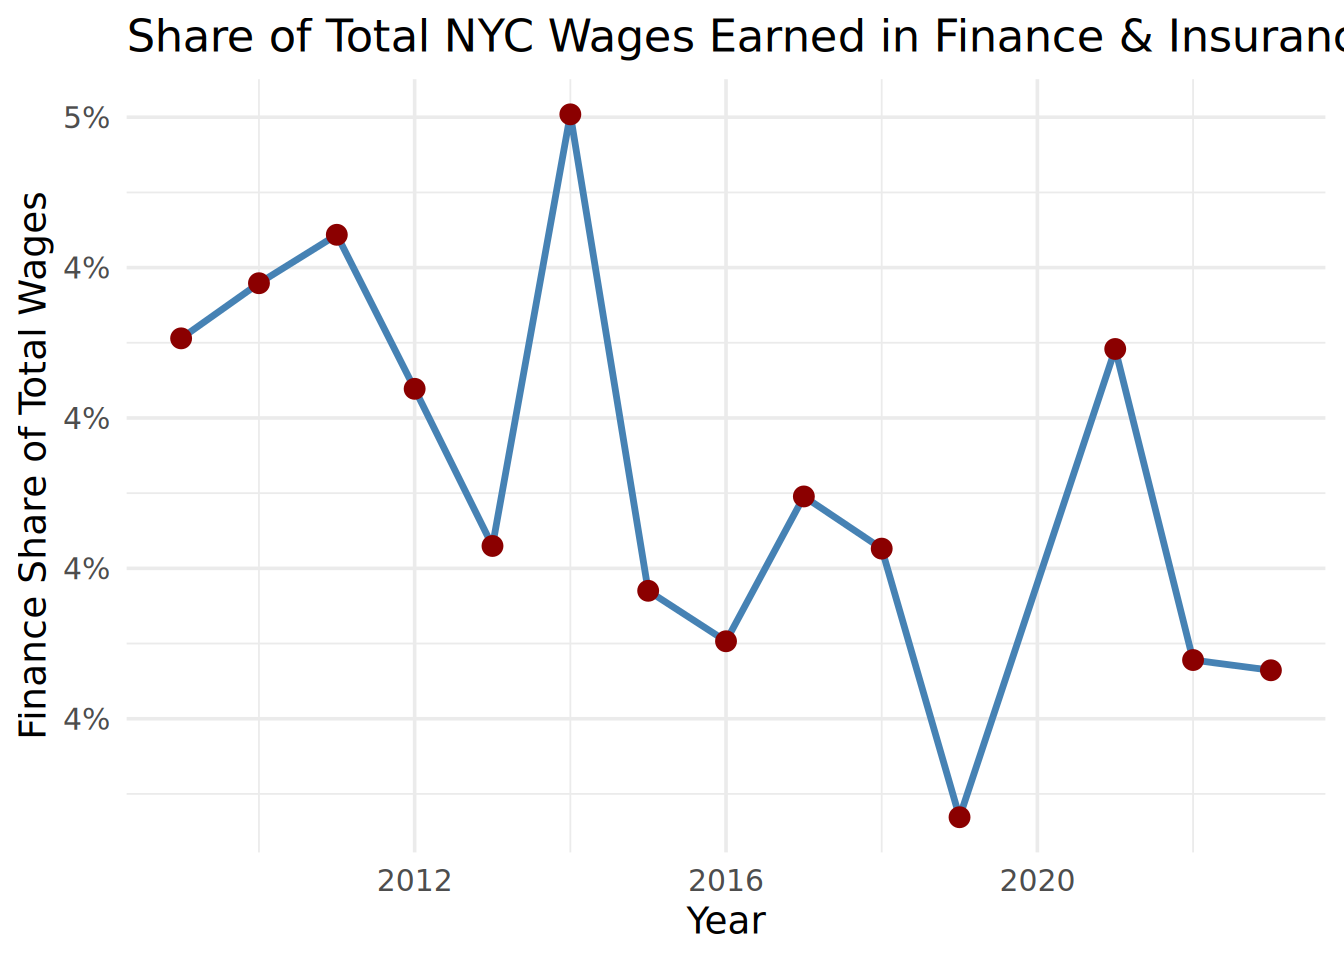
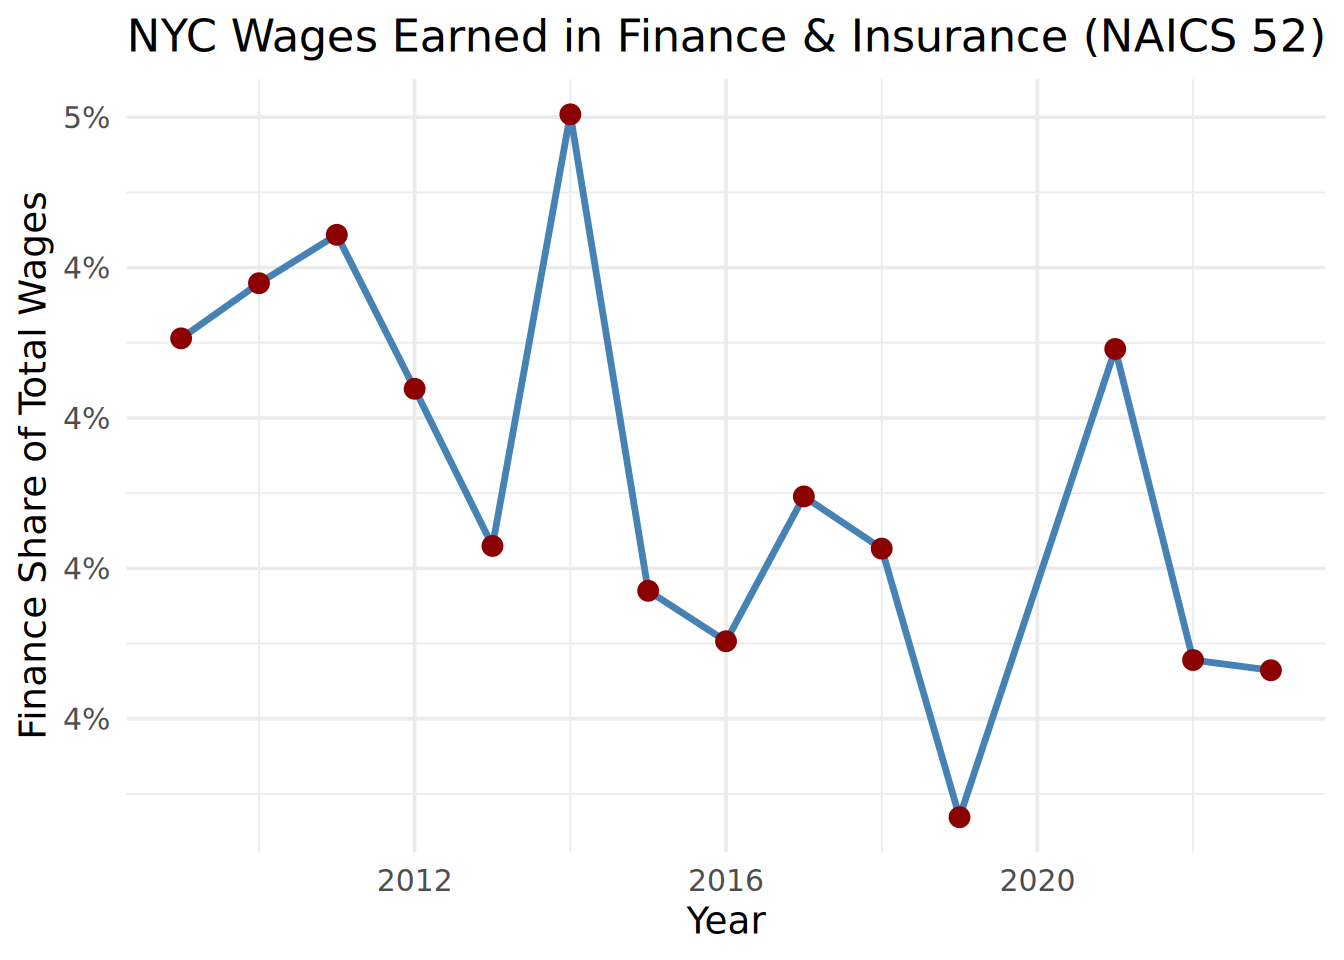
thursday save

Changed region(s): [[0.0938, 0.0, 1.0, 0.0625]]

diff --git a/docs/mp02.html b/docs/mp02.html
@@ -155,8 +155,8 @@ ul.task-list li input[type="checkbox"] {
 <p>Next, we will see some of the findings that were extracted from this data. To begin, we see the top 5 CBSA’s that permitted the largest number of new housing in the 2010’s.</p>
 <div class="cell">
 <div class="cell-output-display">
-<div class="datatables html-widget html-fill-item" id="htmlwidget-491eb739eb9ceb6179eb" style="width:100%;height:auto;"></div>
-<script type="application/json" data-for="htmlwidget-491eb739eb9ceb6179eb">{"x":{"filter":"none","vertical":false,"caption":"<caption>Top 5 CBSAs with the Most New Housing Units Permitted (2010–2019, using 2019 CBSA Names)<\/caption>","data":[["1","2","3","4","5"],[26420,19100,35620,12060,47900],["Houston-The Woodlands-Sugar Land, TX Metro Area","Dallas-Fort Worth-Arlington, TX Metro Area","New York-Newark-Jersey City, NY-NJ-PA Metro Area","Atlanta-Sandy Springs-Alpharetta, GA Metro Area","Washington-Arlington-Alexandria, DC-VA-MD-WV Metro Area"],[482075,460826,446020,254377,232483]],"container":"<table class=\"display\">\n  <thead>\n    <tr>\n      <th> <\/th>\n      <th>CBSA<\/th>\n      <th>NAME<\/th>\n      <th>new_units<\/th>\n    <\/tr>\n  <\/thead>\n<\/table>","options":{"dom":"t","scrollX":true,"columnDefs":[{"className":"dt-right","targets":[1,3]},{"orderable":false,"targets":0},{"name":" ","targets":0},{"name":"CBSA","targets":1},{"name":"NAME","targets":2},{"name":"new_units","targets":3}],"order":[],"autoWidth":false,"orderClasses":false}},"evals":[],"jsHooks":[]}</script>
+<div class="datatables html-widget html-fill-item" id="htmlwidget-e26d96f528dd2d934e6c" style="width:100%;height:auto;"></div>
+<script type="application/json" data-for="htmlwidget-e26d96f528dd2d934e6c">{"x":{"filter":"none","vertical":false,"caption":"<caption>Top 5 CBSAs with the Most New Housing Units Permitted (2010–2019, using 2019 CBSA Names)<\/caption>","data":[["1","2","3","4","5"],[26420,19100,35620,12060,47900],["Houston-The Woodlands-Sugar Land, TX Metro Area","Dallas-Fort Worth-Arlington, TX Metro Area","New York-Newark-Jersey City, NY-NJ-PA Metro Area","Atlanta-Sandy Springs-Alpharetta, GA Metro Area","Washington-Arlington-Alexandria, DC-VA-MD-WV Metro Area"],[482075,460826,446020,254377,232483]],"container":"<table class=\"display\">\n  <thead>\n    <tr>\n      <th> <\/th>\n      <th>CBSA<\/th>\n      <th>NAME<\/th>\n      <th>new_units<\/th>\n    <\/tr>\n  <\/thead>\n<\/table>","options":{"dom":"t","scrollX":true,"columnDefs":[{"className":"dt-right","targets":[1,3]},{"orderable":false,"targets":0},{"name":" ","targets":0},{"name":"CBSA","targets":1},{"name":"NAME","targets":2},{"name":"new_units","targets":3}],"order":[],"autoWidth":false,"orderClasses":false}},"evals":[],"jsHooks":[]}</script>
 </div>
 </div>
 <p>As we can see, the CBSA that permitted the largest number of new housing units between 2010 and 2019 was Houston-The Woodlands-Sugar Land, TX Metro Area.</p>
@@ -185,12 +185,12 @@ ul.task-list li input[type="checkbox"] {
 <p>Next findings show which CBSA had the most amount of data scientists in the last 5 years.</p>
 <div class="cell">
 <div class="cell-output-display">
-<div class="datatables html-widget html-fill-item" id="htmlwidget-24998a2df3b69c3a7c2f" style="width:100%;height:auto;"></div>
-<script type="application/json" data-for="htmlwidget-24998a2df3b69c3a7c2f">{"x":{"filter":"none","vertical":false,"caption":"<caption>Top 5 Most Recent Years – CBSA with the Most Data Scientists (NAICS 5182)<\/caption>","data":[["1","2","3","4","5"],[2023,2022,2021,2019,2018],[41860,41860,12060,41860,41860],["San Francisco-Oakland-Fremont, CA Metro Area","San Francisco-Oakland-Fremont, CA Metro Area","Atlanta-Sandy Springs-Marietta, GA Metro Area","San Francisco-Oakland-Fremont, CA Metro Area","San Francisco-Oakland-Fremont, CA Metro Area"]],"container":"<table class=\"display\">\n  <thead>\n    <tr>\n      <th> <\/th>\n      <th>YEAR<\/th>\n      <th>cbsa_code<\/th>\n      <th>cbsa_name<\/th>\n    <\/tr>\n  <\/thead>\n<\/table>","options":{"dom":"t","scrollX":true,"columnDefs":[{"className":"dt-right","targets":[1,2]},{"orderable":false,"targets":0},{"name":" ","targets":0},{"name":"YEAR","targets":1},{"name":"cbsa_code","targets":2},{"name":"cbsa_name","targets":3}],"order":[],"autoWidth":false,"orderClasses":false}},"evals":[],"jsHooks":[]}</script>
+<div class="datatables html-widget html-fill-item" id="htmlwidget-cceeeefccb8cf1a1f31f" style="width:100%;height:auto;"></div>
+<script type="application/json" data-for="htmlwidget-cceeeefccb8cf1a1f31f">{"x":{"filter":"none","vertical":false,"caption":"<caption>Top 5 Most Recent Years – CBSA with the Most Data Scientists (NAICS 5182)<\/caption>","data":[["1","2","3","4","5"],[2023,2022,2021,2019,2018],[41860,41860,12060,41860,41860],["San Francisco-Oakland-Fremont, CA Metro Area","San Francisco-Oakland-Fremont, CA Metro Area","Atlanta-Sandy Springs-Marietta, GA Metro Area","San Francisco-Oakland-Fremont, CA Metro Area","San Francisco-Oakland-Fremont, CA Metro Area"]],"container":"<table class=\"display\">\n  <thead>\n    <tr>\n      <th> <\/th>\n      <th>YEAR<\/th>\n      <th>cbsa_code<\/th>\n      <th>cbsa_name<\/th>\n    <\/tr>\n  <\/thead>\n<\/table>","options":{"dom":"t","scrollX":true,"columnDefs":[{"className":"dt-right","targets":[1,2]},{"orderable":false,"targets":0},{"name":" ","targets":0},{"name":"YEAR","targets":1},{"name":"cbsa_code","targets":2},{"name":"cbsa_name","targets":3}],"order":[],"autoWidth":false,"orderClasses":false}},"evals":[],"jsHooks":[]}</script>
 </div>
 </div>
 <p>After taking a closer look at more previous years, you are able to find that 2015 was the last year that the NYC CBSA led the country for data scientists.</p>
-<p>The last thing we take a look at initially, is the toal wages in the NYC CBSA. We look specifically into the wages that come from the finance and insurance industries to figure the percentage this is of the total wages.</p>
+<p>The last thing we take a look at initially, is the total wages in the NYC CBSA. We look specifically into the wages that come from the finance and insurance industries to figure the percentage this is of the total wages.</p>
 <div class="cell">
 <div class="cell-output-display">
 <div>
@@ -201,7 +201,7 @@ ul.task-list li input[type="checkbox"] {
 </div>
 </div>
 <p>We look at various years to find no trend. However, we are able to find the peak in the year 2014, with about 5%.</p>
-<p>To keep on trend of familiriaty with the dataset, we will see more visualizations to show different types of relationships.</p>
+<p>To keep on the trend of familiriaty with the dataset, we will see more visualizations to show different types of relationships.</p>
 <div class="cell">
 <div class="cell-output-display">
 <div>
@@ -261,6 +261,62 @@ ul.task-list li input[type="checkbox"] {
 </div>
 <p>The next visualization shows the rent burden in 2023 for CBSA’s across the nation.</p>
 <p>We are highlighting the CBSA’s with the highest and lowest rent burdens.</p>
+<p>Next, we are going to look at housing growth within the CBSAs.</p>
+<p>We are going to construct two metrics, one will allow us to see the housing growth based on population of a CBSA and number of new housing units permitted for the year.</p>
+<p>The other metric will compare the housing permits to the population growth over a 5 year lookback windown.</p>
+<p>Lets first take a look at the first metric.</p>
+<div class="cell">
+<div class="cell-output-display">
+<div class="datatables html-widget html-fill-item" id="htmlwidget-84887ff800bd1618642f" style="width:100%;height:auto;"></div>
+<script type="application/json" data-for="htmlwidget-84887ff800bd1618642f">{"x":{"filter":"none","vertical":false,"caption":"<caption>Top 10 CBSAs by Instantaneous Housing Growth (Standardized)<\/caption>","data":[["1","2","3","4","5","6","7","8","9","10"],["41540","45540","34820","39460","12420","41100","43620","35840","18880","24540"],["Salisbury","The Villages","Myrtle Beach-Conway-North Myrtle Beach","Punta Gorda","Austin-Round Rock-Georgetown","St. George","Sioux Falls","North Port-Sarasota-Bradenton","Crestview-Fort Walton Beach-Destin","Greeley"],[2023,2021,2023,2022,2021,2019,2022,2021,2023,2022],[10.77897917821454,9.596029855146394,9.328148730883457,7.699872111219605,5.683497017768591,5.174554942806703,4.91021228878386,4.695833511517524,4.644229210974912,4.406650397047013]],"container":"<table class=\"display\">\n  <thead>\n    <tr>\n      <th> <\/th>\n      <th>cbsa_code<\/th>\n      <th>cbsa_name<\/th>\n      <th>year<\/th>\n      <th>housing_growth_instant_std<\/th>\n    <\/tr>\n  <\/thead>\n<\/table>","options":{"pageLength":10,"columnDefs":[{"className":"dt-right","targets":[3,4]},{"orderable":false,"targets":0},{"name":" ","targets":0},{"name":"cbsa_code","targets":1},{"name":"cbsa_name","targets":2},{"name":"year","targets":3},{"name":"housing_growth_instant_std","targets":4}],"order":[],"autoWidth":false,"orderClasses":false}},"evals":[],"jsHooks":[]}</script>
+</div>
+<div class="cell-output-display">
+<div class="datatables html-widget html-fill-item" id="htmlwidget-547cea7a3d54aab207b3" style="width:100%;height:auto;"></div>
+<script type="application/json" data-for="htmlwidget-547cea7a3d54aab207b3">{"x":{"filter":"none","vertical":false,"caption":"<caption>Bottom 10 CBSAs by Instantaneous Housing Growth (Standardized)<\/caption>","data":[["1","2","3","4","5","6","7","8","9","10"],["19180","21820","34060","48540","48260","44600","22420","21420","29020","19500"],["Danville","Fairbanks","Morgantown","Wheeling","Weirton-Steubenville","Steubenville-Weirton","Flint","Enid","Kokomo","Decatur"],[2022,2015,2022,2023,2023,2011,2011,2023,2010,2022],[-1.160859507556099,-1.147365314861373,-1.144916634107787,-1.143909856577676,-1.125209699578639,-1.120793072359409,-1.120095895384042,-1.118556161154544,-1.112887292589859,-1.1040834745395]],"container":"<table class=\"display\">\n  <thead>\n    <tr>\n      <th> <\/th>\n      <th>cbsa_code<\/th>\n      <th>cbsa_name<\/th>\n      <th>year<\/th>\n      <th>housing_growth_instant_std<\/th>\n    <\/tr>\n  <\/thead>\n<\/table>","options":{"pageLength":10,"columnDefs":[{"className":"dt-right","targets":[3,4]},{"orderable":false,"targets":0},{"name":" ","targets":0},{"name":"cbsa_code","targets":1},{"name":"cbsa_name","targets":2},{"name":"year","targets":3},{"name":"housing_growth_instant_std","targets":4}],"order":[],"autoWidth":false,"orderClasses":false}},"evals":[],"jsHooks":[]}</script>
+</div>
+</div>
+<p>After coming up with our metric, we are able to separate the top 10 and bottom 10 CBSA’s in terms of instantaneous housing growth.</p>
+<p>Next, we will take a look at the second metric.</p>
+<div class="cell">
+<div class="cell-output-display">
+<div class="datatables html-widget html-fill-item" id="htmlwidget-3997fe9afa4e59e75c4a" style="width:100%;height:auto;"></div>
+<script type="application/json" data-for="htmlwidget-3997fe9afa4e59e75c4a">{"x":{"filter":"none","vertical":false,"caption":"<caption>Top 10 CBSAs by Rate-Based Housing Growth (Standardized)<\/caption>","data":[["1","2","3","4","5","6","7","8","9","10"],["33660","15380","35100","48140","22520","38300","17860","10580","33780","30340"],["Mobile","Buffalo-Cheektowaga-Niagara Falls","New Bern","Wausau","Florence-Muscle Shoals","Pittsburgh","Columbia","Albany-Schenectady-Troy","Monroe","Lewiston-Auburn"],[2017,2015,2019,2018,2017,2021,2017,2019,2018,2017],[28.95931645444866,28.8927889005698,16.8470487455071,14.07658622781179,8.443312441831342,5.725112198810617,5.180685406286639,4.696714999677041,4.182077236042853,3.179433658210268]],"container":"<table class=\"display\">\n  <thead>\n    <tr>\n      <th> <\/th>\n      <th>cbsa_code<\/th>\n      <th>cbsa_name<\/th>\n      <th>year<\/th>\n      <th>housing_growth_rate_std<\/th>\n    <\/tr>\n  <\/thead>\n<\/table>","options":{"pageLength":10,"columnDefs":[{"className":"dt-right","targets":[3,4]},{"orderable":false,"targets":0},{"name":" ","targets":0},{"name":"cbsa_code","targets":1},{"name":"cbsa_name","targets":2},{"name":"year","targets":3},{"name":"housing_growth_rate_std","targets":4}],"order":[],"autoWidth":false,"orderClasses":false}},"evals":[],"jsHooks":[]}</script>
+</div>
+<div class="cell-output-display">
+<div class="datatables html-widget html-fill-item" id="htmlwidget-04c7a72a2765225ecdbe" style="width:100%;height:auto;"></div>
+<script type="application/json" data-for="htmlwidget-04c7a72a2765225ecdbe">{"x":{"filter":"none","vertical":false,"caption":"<caption>Bottom 10 CBSAs by Rate-Based Housing Growth (Standardized)<\/caption>","data":[["1","2","3","4","5","6","7","8","9","10"],["34060","26580","12100","30980","16620","21820","45460","30020","25620","31740"],["Morgantown","Huntington-Ashland","Atlantic City-Hammonton","Longview","Charleston","Fairbanks","Terre Haute","Lawton","Hattiesburg","Manhattan"],[2016,2016,2023,2019,2022,2015,2019,2014,2021,2023],[-0.1432228571382545,-0.1431971367411251,-0.1429971707528833,-0.1429106319760908,-0.1422592225699794,-0.1421763003629161,-0.1417330135612504,-0.1416443692770018,-0.14157379834897,-0.141023588185687]],"container":"<table class=\"display\">\n  <thead>\n    <tr>\n      <th> <\/th>\n      <th>cbsa_code<\/th>\n      <th>cbsa_name<\/th>\n      <th>year<\/th>\n      <th>housing_growth_rate_std<\/th>\n    <\/tr>\n  <\/thead>\n<\/table>","options":{"pageLength":10,"columnDefs":[{"className":"dt-right","targets":[3,4]},{"orderable":false,"targets":0},{"name":" ","targets":0},{"name":"cbsa_code","targets":1},{"name":"cbsa_name","targets":2},{"name":"year","targets":3},{"name":"housing_growth_rate_std","targets":4}],"order":[],"autoWidth":false,"orderClasses":false}},"evals":[],"jsHooks":[]}</script>
+</div>
+</div>
+<p>After coming up with our second metric, we are able to separate the top 10 and bottom 10 CBSA’s in terms of rate-based housing growth.</p>
+<p>The last metric we will take a look is a composite score that combines the first two metrics.</p>
+<p>Once we figured out the metric, we are going to identify the CBSA’s that do well and poor with this measure</p>
+<div class="cell">
+<div class="cell-output-display">
+<div class="datatables html-widget html-fill-item" id="htmlwidget-f31b5dd62a8452e16dc7" style="width:100%;height:auto;"></div>
+<script type="application/json" data-for="htmlwidget-f31b5dd62a8452e16dc7">{"x":{"filter":"none","vertical":false,"caption":"<caption>Top 10 CBSAs by Instantaneous Housing Growth (Std) — 2023<\/caption>","data":[["1","2","3","4","5","6","7","8","9","10"],["41540","34820","39460","18880","35840","19300","43300","15980","12420","29460"],["Salisbury","Myrtle Beach-Conway-North Myrtle Beach","Punta Gorda","Crestview-Fort Walton Beach-Destin","North Port-Bradenton-Sarasota","Daphne-Fairhope-Foley","Sherman-Denison","Cape Coral-Fort Myers","Austin-Round Rock-San Marcos","Lakeland-Winter Haven"],[2023,2023,2023,2023,2023,2023,2023,2023,2023,2023],[10.77897917821454,9.328148730883457,5.634667657716876,4.644229210974912,4.37274341609972,4.280699324419797,4.105327992614285,3.974296882914508,3.794973845128286,3.672769388687755]],"container":"<table class=\"display\">\n  <thead>\n    <tr>\n      <th> <\/th>\n      <th>cbsa_code<\/th>\n      <th>cbsa_name<\/th>\n      <th>year<\/th>\n      <th>housing_growth_instant_std<\/th>\n    <\/tr>\n  <\/thead>\n<\/table>","options":{"pageLength":10,"columnDefs":[{"className":"dt-right","targets":[3,4]},{"orderable":false,"targets":0},{"name":" ","targets":0},{"name":"cbsa_code","targets":1},{"name":"cbsa_name","targets":2},{"name":"year","targets":3},{"name":"housing_growth_instant_std","targets":4}],"order":[],"autoWidth":false,"orderClasses":false}},"evals":[],"jsHooks":[]}</script>
+</div>
+<div class="cell-output-display">
+<div class="datatables html-widget html-fill-item" id="htmlwidget-f056af6b52ee5d90a2a6" style="width:100%;height:auto;"></div>
+<script type="application/json" data-for="htmlwidget-f056af6b52ee5d90a2a6">{"x":{"filter":"none","vertical":false,"caption":"<caption>Bottom 10 CBSAs by Instantaneous Housing Growth (Std) — 2023<\/caption>","data":[["1","2","3","4","5","6","7","8","9","10"],["48540","19180","34060","48260","21420","19500","27780","13020","48700","21820"],["Wheeling","Danville","Morgantown","Weirton-Steubenville","Enid","Decatur","Johnstown","Bay City","Williamsport","Fairbanks-College"],[2023,2023,2023,2023,2023,2023,2023,2023,2023,2023],[-1.143909856577676,-1.134257283270455,-1.131653494418349,-1.125209699578639,-1.118556161154544,-1.062575305417319,-1.055707122620836,-1.052210454643948,-1.009480854169906,-1.005997393355616]],"container":"<table class=\"display\">\n  <thead>\n    <tr>\n      <th> <\/th>\n      <th>cbsa_code<\/th>\n      <th>cbsa_name<\/th>\n      <th>year<\/th>\n      <th>housing_growth_instant_std<\/th>\n    <\/tr>\n  <\/thead>\n<\/table>","options":{"pageLength":10,"columnDefs":[{"className":"dt-right","targets":[3,4]},{"orderable":false,"targets":0},{"name":" ","targets":0},{"name":"cbsa_code","targets":1},{"name":"cbsa_name","targets":2},{"name":"year","targets":3},{"name":"housing_growth_instant_std","targets":4}],"order":[],"autoWidth":false,"orderClasses":false}},"evals":[],"jsHooks":[]}</script>
+</div>
+<div class="cell-output-display">
+<div class="datatables html-widget html-fill-item" id="htmlwidget-5fad1c34857217641dc3" style="width:100%;height:auto;"></div>
+<script type="application/json" data-for="htmlwidget-5fad1c34857217641dc3">{"x":{"filter":"none","vertical":false,"caption":"<caption>Top 10 CBSAs by Rate-Based Housing Growth (Std) — 2023<\/caption>","data":[["1","2","3","4","5","6","7","8","9","10"],["44220","46520","19140","15260","11260","39540","14860","33100","25860","15180"],["Springfield","Urban Honolulu","Dalton","Brunswick-St. Simons","Anchorage","Racine-Mount Pleasant","Bridgeport-Stamford-Danbury","Miami-Fort Lauderdale-West Palm Beach","Hickory-Lenoir-Morganton","Brownsville-Harlingen"],[2023,2023,2023,2023,2023,2023,2023,2023,2023,2023],[2.102612377747565,1.207946214879336,0.8294526857538266,0.5641892359689037,0.4492924259837699,0.3905695444564722,0.371738290552047,0.3395248800714027,0.2319341478224218,0.217219865420878]],"container":"<table class=\"display\">\n  <thead>\n    <tr>\n      <th> <\/th>\n      <th>cbsa_code<\/th>\n      <th>cbsa_name<\/th>\n      <th>year<\/th>\n      <th>housing_growth_rate_std<\/th>\n    <\/tr>\n  <\/thead>\n<\/table>","options":{"pageLength":10,"columnDefs":[{"className":"dt-right","targets":[3,4]},{"orderable":false,"targets":0},{"name":" ","targets":0},{"name":"cbsa_code","targets":1},{"name":"cbsa_name","targets":2},{"name":"year","targets":3},{"name":"housing_growth_rate_std","targets":4}],"order":[],"autoWidth":false,"orderClasses":false}},"evals":[],"jsHooks":[]}</script>
+</div>
+<div class="cell-output-display">
+<div class="datatables html-widget html-fill-item" id="htmlwidget-52abeae3cbad6d1f432f" style="width:100%;height:auto;"></div>
+<script type="application/json" data-for="htmlwidget-52abeae3cbad6d1f432f">{"x":{"filter":"none","vertical":false,"caption":"<caption>Bottom 10 CBSAs by Rate-Based Housing Growth (Std) — 2023<\/caption>","data":[["1","2","3","4","5","6","7","8","9","10"],["12100","30980","34060","31740","27180","11180","33740","29100","23420","13740"],["Atlantic City-Hammonton","Longview","Morgantown","Manhattan","Jackson","Ames","Monroe","La Crosse-Onalaska","Fresno","Billings"],[2023,2023,2023,2023,2023,2023,2023,2023,2023,2023],[-0.1429971707528833,-0.1424681450427464,-0.1420906125221123,-0.141023588185687,-0.1405487907867175,-0.1398717703457404,-0.1398576357146417,-0.1372685026568593,-0.1359603127467271,-0.1351297187265275]],"container":"<table class=\"display\">\n  <thead>\n    <tr>\n      <th> <\/th>\n      <th>cbsa_code<\/th>\n      <th>cbsa_name<\/th>\n      <th>year<\/th>\n      <th>housing_growth_rate_std<\/th>\n    <\/tr>\n  <\/thead>\n<\/table>","options":{"pageLength":10,"columnDefs":[{"className":"dt-right","targets":[3,4]},{"orderable":false,"targets":0},{"name":" ","targets":0},{"name":"cbsa_code","targets":1},{"name":"cbsa_name","targets":2},{"name":"year","targets":3},{"name":"housing_growth_rate_std","targets":4}],"order":[],"autoWidth":false,"orderClasses":false}},"evals":[],"jsHooks":[]}</script>
+</div>
+<div class="cell-output-display">
+<div class="datatables html-widget html-fill-item" id="htmlwidget-375ea979d0b560b47491" style="width:100%;height:auto;"></div>
+<script type="application/json" data-for="htmlwidget-375ea979d0b560b47491">{"x":{"filter":"none","vertical":false,"caption":"<caption>Top 10 CBSAs by Composite Housing Growth (Std) — 2023<\/caption>","data":[["1","2","3","4","5","6","7","8","9","10"],["39460","18880","35840","19300","43300","15980","12420","15500","29460","41100"],["Punta Gorda","Crestview-Fort Walton Beach-Destin","North Port-Bradenton-Sarasota","Daphne-Fairhope-Foley","Sherman-Denison","Cape Coral-Fort Myers","Austin-Round Rock-San Marcos","Burlington","Lakeland-Winter Haven","St. George"],[2023,2023,2023,2023,2023,2023,2023,2023,2023,2023],[3.541254963295858,2.860055730735074,2.668975200117271,2.589500100483142,2.488293675039861,2.394083982329961,2.259158745820681,2.184822100660891,2.170759676118734,1.870011443408332]],"container":"<table class=\"display\">\n  <thead>\n    <tr>\n      <th> <\/th>\n      <th>cbsa_code<\/th>\n      <th>cbsa_name<\/th>\n      <th>year<\/th>\n      <th>housing_growth_composite_std<\/th>\n    <\/tr>\n  <\/thead>\n<\/table>","options":{"pageLength":10,"columnDefs":[{"className":"dt-right","targets":[3,4]},{"orderable":false,"targets":0},{"name":" ","targets":0},{"name":"cbsa_code","targets":1},{"name":"cbsa_name","targets":2},{"name":"year","targets":3},{"name":"housing_growth_composite_std","targets":4}],"order":[],"autoWidth":false,"orderClasses":false}},"evals":[],"jsHooks":[]}</script>
+</div>
+<div class="cell-output-display">
+<div class="datatables html-widget html-fill-item" id="htmlwidget-5aa98449ad402c5f5828" style="width:100%;height:auto;"></div>
+<script type="application/json" data-for="htmlwidget-5aa98449ad402c5f5828">{"x":{"filter":"none","vertical":false,"caption":"<caption>Bottom 10 CBSAs by Composite Housing Growth (Std) — 2023<\/caption>","data":[["1","2","3","4","5","6","7","8","9","10"],["34060","21420","11500","26580","39740","26300","45460","12100","42540","31900"],["Morgantown","Enid","Anniston-Oxford","Huntington-Ashland","Reading","Hot Springs","Terre Haute","Atlantic City-Hammonton","Scranton--Wilkes-Barre","Mansfield"],[2023,2023,2023,2023,2023,2023,2023,2023,2023,2023],[-1.13699923586385,-1.121596614783982,-1.032100686368009,-0.9842789746355113,-0.9805455837188681,-0.955096599022136,-0.9520715984761614,-0.9399915396120567,-0.9323003803384033,-0.9260220682564999]],"container":"<table class=\"display\">\n  <thead>\n    <tr>\n      <th> <\/th>\n      <th>cbsa_code<\/th>\n      <th>cbsa_name<\/th>\n      <th>year<\/th>\n      <th>housing_growth_composite_std<\/th>\n    <\/tr>\n  <\/thead>\n<\/table>","options":{"pageLength":10,"columnDefs":[{"className":"dt-right","targets":[3,4]},{"orderable":false,"targets":0},{"name":" ","targets":0},{"name":"cbsa_code","targets":1},{"name":"cbsa_name","targets":2},{"name":"year","targets":3},{"name":"housing_growth_composite_std","targets":4}],"order":[],"autoWidth":false,"orderClasses":false}},"evals":[],"jsHooks":[]}</script>
+</div>
+</div>
+<p>As you could see above.</p>
 
 
 
